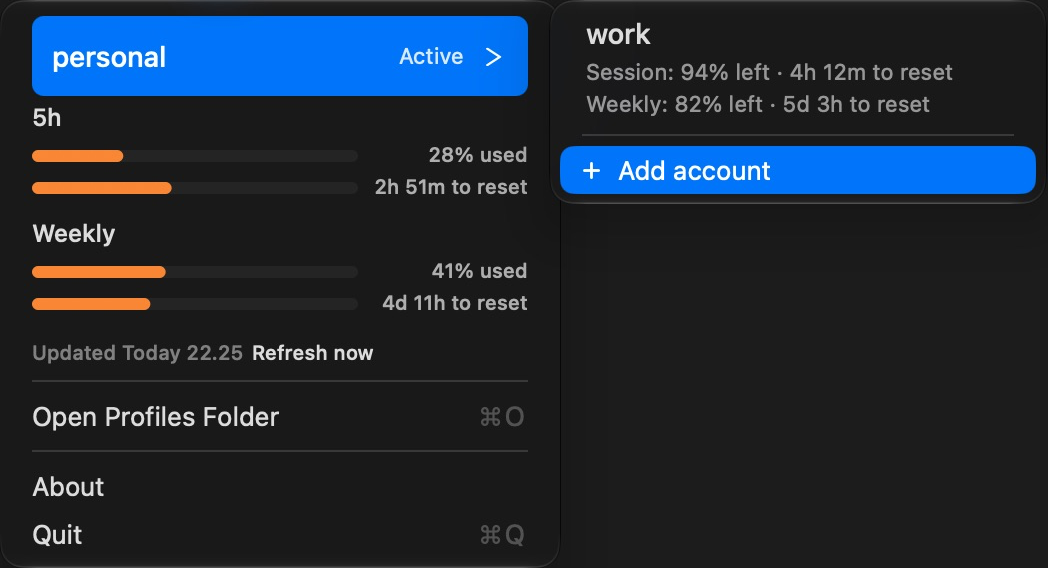
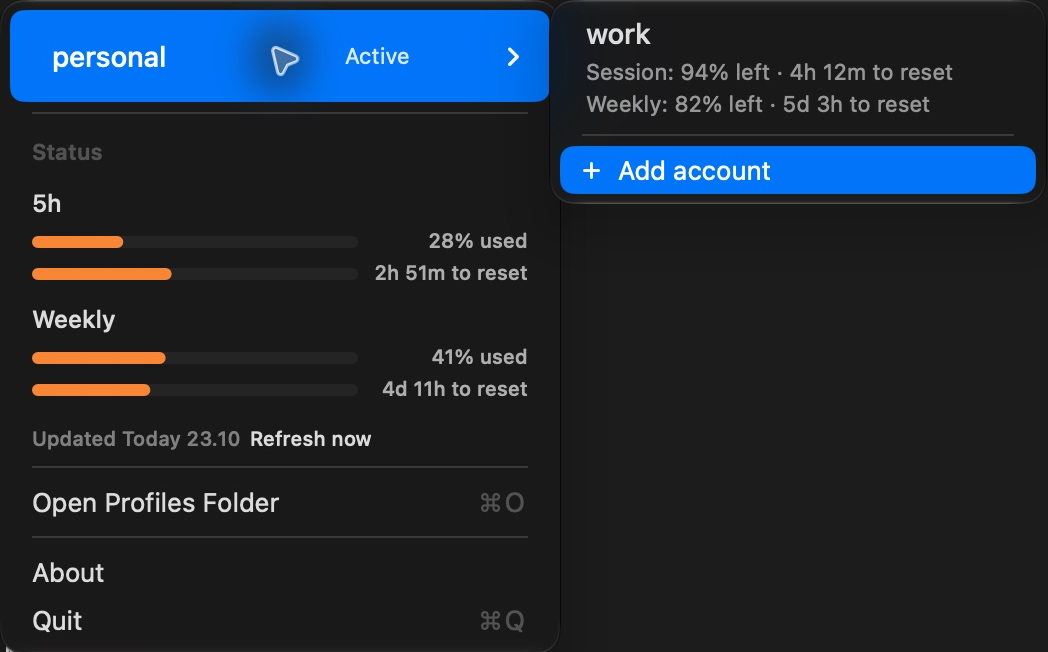
Let AppKit render the accounts submenu caret

diff --git a/CodexAccountSwitcher.swift b/CodexAccountSwitcher.swift
@@ -216,7 +216,7 @@ private final class AccountSubmenuCell: NSCell {
         let nameHeight = NSAttributedString(string: name, attributes: nameAttributes).size().height
         (name as NSString).draw(
             in: NSRect(x: cellFrame.minX + 10, y: cellFrame.midY - nameHeight / 2,
-                       width: cellFrame.width - (activeProfile.isEmpty ? 40 : 86), height: nameHeight),
+                       width: cellFrame.width - (activeProfile.isEmpty ? 20 : 64), height: nameHeight),
             withAttributes: nameAttributes
         )
 
@@ -227,74 +227,10 @@ private final class AccountSubmenuCell: NSCell {
             ]
             let size = NSAttributedString(string: "Active", attributes: attributes).size()
             ("Active" as NSString).draw(
-                at: NSPoint(x: cellFrame.maxX - 32 - size.width, y: cellFrame.midY - size.height / 2),
+                at: NSPoint(x: cellFrame.maxX - 10 - size.width, y: cellFrame.midY - size.height / 2),
                 withAttributes: attributes
             )
         }
-
-        if let image = NSImage(systemSymbolName: "chevron.right", accessibilityDescription: nil) {
-            let tinted = NSImage(size: NSSize(width: 12, height: 12), flipped: false) { rect in
-                image.draw(in: rect)
-                textColor.setFill()
-                rect.fill(using: .sourceIn)
-                return true
-            }
-            tinted.draw(in: NSRect(x: cellFrame.maxX - 24, y: cellFrame.midY - 6, width: 12, height: 12))
-        }
-    }
-}
-
-private final class AccountSubmenuContentView: NSView {
-    private let accountCell: AccountSubmenuCell
-
-    override var isFlipped: Bool { true }
-
-    init(activeProfile: String) {
-        accountCell = AccountSubmenuCell(textCell: activeProfile.isEmpty ? "Accounts" : activeProfile)
-        accountCell.activeProfile = activeProfile
-        super.init(frame: NSRect(x: 0, y: 0, width: MenuLayout.width,
-                                 height: MenuLayout.accountBoxHeight + MenuLayout.verticalPadding * 2))
-        autoresizingMask = [.width]
-        setAccessibilityElement(false)
-    }
-
-    required init?(coder: NSCoder) { nil }
-
-    override func draw(_ dirtyRect: NSRect) {
-        accountCell.isHighlighted = enclosingMenuItem?.isHighlighted == true
-        accountCell.draw(withFrame: NSRect(x: MenuLayout.horizontalPadding, y: MenuLayout.verticalPadding,
-                                          width: bounds.width - MenuLayout.horizontalPadding * 2,
-                                          height: MenuLayout.accountBoxHeight), in: self)
-    }
-}
-
-private final class AccountSubmenuView: NSView {
-    private let content: AccountSubmenuContentView
-    private let highlight: NSVisualEffectView
-
-    override var isFlipped: Bool { true }
-
-    init(activeProfile: String) {
-        content = AccountSubmenuContentView(activeProfile: activeProfile)
-        highlight = makeNativeMenuHighlight(frame: NSRect(x: MenuLayout.horizontalPadding, y: MenuLayout.verticalPadding,
-                                                          width: MenuLayout.contentWidth, height: MenuLayout.accountBoxHeight))
-        super.init(frame: content.frame)
-        autoresizingMask = [.width]
-        addSubview(highlight)
-        addSubview(content)
-        setAccessibilityElement(true)
-        setAccessibilityRole(.menuItem)
-        setAccessibilityLabel("Accounts")
-        setAccessibilityValue(activeProfile.isEmpty ? "No active account" : activeProfile)
-        setAccessibilityHelp("Open the accounts submenu")
-    }
-
-    required init?(coder: NSCoder) { nil }
-
-    override func viewWillDraw() {
-        highlight.isHidden = enclosingMenuItem?.isHighlighted != true
-        content.needsDisplay = true
-        super.viewWillDraw()
     }
 }
 
@@ -953,12 +889,12 @@ final class AppDelegate: NSObject, NSApplicationDelegate, NSMenuDelegate {
 
     private func makeMenu(profiles: [String], activeProfile: String) -> NSMenu {
         let menu = NSMenu()
+        menu.minimumWidth = MenuLayout.width
         menu.delegate = self
         menu.autoenablesItems = false
 
         let selectorItem = NSMenuItem(title: activeProfile.isEmpty ? "Accounts" : activeProfile, action: nil, keyEquivalent: "")
         selectorItem.submenu = accountsSubmenu(profiles: profiles, activeProfile: activeProfile)
-        selectorItem.view = AccountSubmenuView(activeProfile: activeProfile)
         menu.addItem(selectorItem)
 
         menu.addItem(.separator())
@@ -984,12 +920,50 @@ final class AppDelegate: NSObject, NSApplicationDelegate, NSMenuDelegate {
         menu.addItem(.separator())
         menu.addItem(makeItem(title: "About", action: #selector(showAbout)))
         menu.addItem(makeItem(title: "Quit", action: #selector(quit), keyEquivalent: "q"))
+
+        // Keep the styled title in the native title column. AppKit owns the
+        // submenu caret, its geometry, highlighting and keyboard navigation.
+        let menuWidth = menu.size.width
+        setAccountTitle(on: selectorItem, profile: activeProfile, width: MenuLayout.contentWidth)
+        let overflow = max(0, menu.size.width - menuWidth)
+        if overflow > 0 {
+            setAccountTitle(on: selectorItem, profile: activeProfile,
+                            width: max(80, MenuLayout.contentWidth - overflow))
+        }
         return menu
     }
 
+    private func setAccountTitle(on item: NSMenuItem, profile: String, width: CGFloat) {
+        let image = NSImage(size: NSSize(width: width, height: MenuLayout.accountBoxHeight), flipped: true) { [weak item] rect in
+            let cell = AccountSubmenuCell(textCell: profile)
+            cell.activeProfile = profile
+            cell.isHighlighted = item?.isHighlighted == true
+            cell.draw(withFrame: rect, in: NSView(frame: rect))
+            return true
+        }
+        image.cacheMode = .never
+        image.accessibilityDescription = profile.isEmpty ? "Accounts" : "Active account: \(profile)"
+        let attachment = NSTextAttachment()
+        attachment.image = image
+        attachment.bounds = NSRect(x: 0, y: MenuLayout.itemFont.descender,
+                                   width: width, height: MenuLayout.accountBoxHeight)
+        let title = NSMutableAttributedString(attachment: attachment)
+        title.addAttribute(.font, value: MenuLayout.itemFont, range: NSRange(location: 0, length: title.length))
+        item.attributedTitle = title
+        // Retain a plain title for accessibility and native type-select.
+        item.title = profile.isEmpty ? "Accounts" : profile
+        item.toolTip = image.accessibilityDescription
+    }
+
     func menu(_ menu: NSMenu, willHighlight item: NSMenuItem?) {
-        // Custom account views follow the same native highlight state as ordinary items.
-        for menuItem in menu.items { menuItem.view?.needsDisplay = true }
+        // Custom account content follows the same native highlight state as ordinary items.
+        for menuItem in menu.items {
+            menuItem.view?.needsDisplay = true
+            if let title = menuItem.attributedTitle, title.length > 0,
+               let attachment = title.attribute(.attachment, at: 0, effectiveRange: nil) as? NSTextAttachment {
+                attachment.image?.recache()
+            }
+        }
     }
 
     private func makeItem(title: String, action: Selector, keyEquivalent: String = "") -> NSMenuItem {

diff --git a/tests/test_account_menu.py b/tests/test_account_menu.py
@@ -40,7 +40,10 @@ extension AppDelegate {
             assert(accountItem.hasSubmenu, "Accounts must use native submenu tracking")
             let menu = accountItem.submenu!
             assert(menu.supermenu === main)
-            let selector = accountItem.view as! AccountSubmenuView
+            assert(accountItem.view == nil, "AppKit must draw the native submenu caret")
+            let attachment = accountItem.attributedTitle?.attribute(.attachment, at: 0, effectiveRange: nil) as? NSTextAttachment
+            assert(attachment?.image != nil, "The native row must retain the styled account title")
+            assert(main.size.width == 280, "The native caret must not widen the menu")
             let choices = menu.items.filter { !$0.isHidden && !$0.isSeparatorItem }
             assert(choices.map(\.title) == profiles.filter { $0 != "personal" } + ["Add account"])
             assert(menu.minimumWidth == 248)
@@ -62,9 +65,6 @@ extension AppDelegate {
                 assert(item.view?.accessibilityValue() as? String == accountUsageDetails(item.title).joined(separator: ", "))
                 assert(item.view?.acceptsFirstResponder == false, "Native menus must own arrow-key navigation")
             }
-            assert(selector.accessibilityValue() as? String == "personal")
-            assert(!selector.subviews.contains { $0 is NSControl },
-                   "The account row must not contain an interactive nested control")
             let folder = main.item(withTitle: "Open Profiles Folder")!
             assert(folder.view == nil && folder.keyEquivalent == "o")
             let quit = main.item(withTitle: "Quit")!
@@ -73,8 +73,8 @@ extension AppDelegate {
         }
         let emptyMain = makeMenu(profiles: [], activeProfile: "")
         let empty = emptyMain.items[0].submenu!
-        let selector = emptyMain.items[0].view as! AccountSubmenuView
-        assert(selector.accessibilityValue() as? String == "No active account")
+        assert(emptyMain.items[0].view == nil)
+        assert(emptyMain.items[0].title == "Accounts")
         assert(empty.items.filter { !$0.isHidden }.map(\.title) == ["Add account"])
         let orphan = accountsSubmenu(profiles: ["work"], activeProfile: "unsaved")
         assert(orphan.items.filter { !$0.isSeparatorItem }.map(\.title) == ["work", "Add account"])
